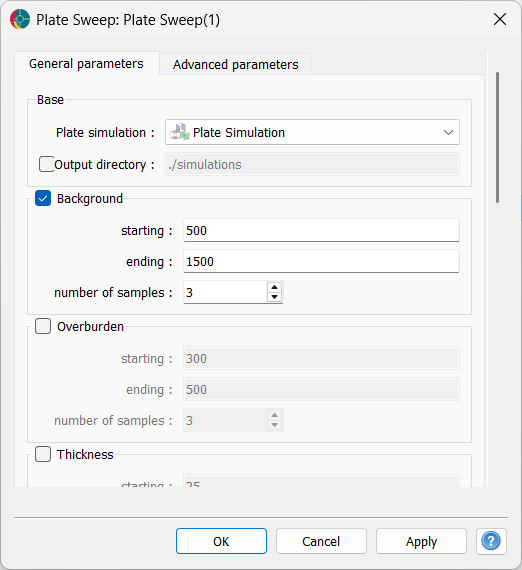
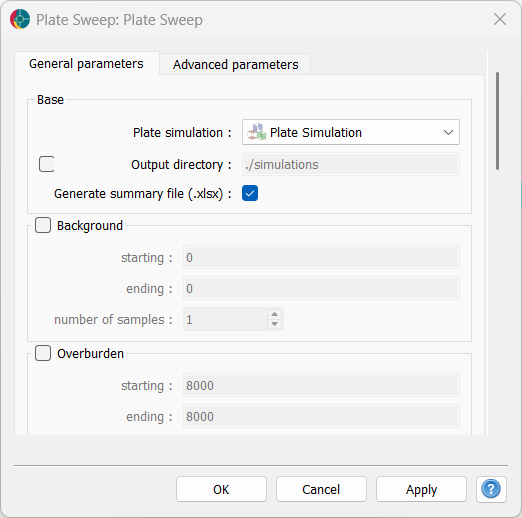
Edit more docs

diff --git a/docs/conf.py b/docs/conf.py
@@ -42,6 +42,7 @@ templates_path = ["_templates"]
 exclude_patterns = []
 todo_include_todos = True
 
+
 # -- Options for auto-doc ----------------------------------------------------
 # https://www.sphinx-doc.org/en/master/usage/extensions/autodoc.html#module-sphinx.ext.autodoc
 

diff --git a/docs/plate-simulation/simulation.rst b/docs/plate-simulation/simulation.rst
@@ -1,13 +1,27 @@
-.. _plate_simulation_usage:
+.. _plate_simulation_index:
 
-Basic Usage
------------
+Plate Simulation
+================
+
+The plate-simulation application is a tool for simulating geophysical data over
+a simple two-layer earth model with plate(s).  It relies on the
+`discretize <https://discretize.simpeg.xyz/en/main/>`_
+and `SimPEG <https://simpeg.xyz/>`_ projects to create a refined octree mesh and
+simulate data over the parameterized model.  The mesh, model and simulation
+details are parameterized in a ui.json file that can be rendered in
+`Geoscience ANALYST Pro <https://www.mirageoscience.com/mining-industry-software/geoscience-analyst-pro/>`_.
+
+.. figure:: /plate-simulation/images/index.png
+   :align: center
+   :width: 50%
+
+
+Interface
+=========
 
 Simulating geophysical data from a physical property model requires three things:
 a computational mesh, a discretization of the model within that mesh, and a means
-to simulate the data. Plate simulation relies on `discretize <https://discretize.simpeg.xyz/en/main/>`_
-for octree mesh creation and `SimPEG <https://simpeg.xyz/>`_ for finite volume
-based forward modeling. Plate simulation includes a module for generating a simple
+to simulate the data. Plate simulation includes a module for generating a simple
 two-layer model with embedded plate anomalies within octree meshes. This section
 discusses all three of these components, their interface exposed by the ui.json file,
 and the storage of results.
@@ -18,35 +32,6 @@ and the storage of results.
 
     *Merged images of both tabs of the ui.json rendered interface.*
 
-.. contents::
-
-.. toctree::
-   :maxdepth: 3
-
-
-Octree Mesh
------------
-
-To accurately simulate the earth model, the mesh must be refined in key areas
-while remaining coarse enough elsewhere to efficiently simulate data. Plate
-simulation includes refinements at the earth-air interface, the transmitter and
-receiver sites, and on the surface of plates.
-
-.. figure:: /plate-simulation/images/methodology/mesh/refinement.png
-    :align: center
-    :width: 100%
-
-    *Octree mesh refinement for earth-air interface, receiver sites,
-    and within the mesh.*
-
-The meshing is controlled by options exposed in the ui.json. These options are
-significantly reduced compared with octree creation from `grid-app <https://mirageoscience-grid-apps.readthedocs-hosted.com/>`_,
-as many parameters have been tailored to suit the needs of plate simulation.
-
-.. figure:: /plate-simulation/images/methodology/mesh/mesh_options.png
-    :align: center
-
-    *Octree mesh parameters exposed in the ui.json.*
 
 Geological Model
 ----------------
@@ -55,12 +40,12 @@ Plate simulation includes a module for generating plates embedded in a two-layer
 Earth model within octree meshes. Many permutations of this simple geological
 scenario result in a complex interface. To simplify this, the discussion is
 organized into two sub-sections: background (basement and overburden) and plates.
+All model values within plate-simulation must be provided in SI units that varies depending on the chosen forward simulation (g/cc, SI or Ohm.m)
 
 Background
 ~~~~~~~~~~
 
-All model values within plate-simulation must be provided in ohm-metres. The
-basement resistivity is actually closer to a halfspace in the sense that it
+The basement resistivity is actually closer to a halfspace in the sense that it
 fills the model anywhere outside of the overburden and plate. Therefore, the
 basement resistivity should be chosen as an effective resistivity for the whole
 geological section. This approach is quite reasonable for most applications
@@ -115,7 +100,7 @@ and share the same resistivity, size, and orientation.
 
     *Model created by choosing three plates spaced at 200m.*
 
-The plate resistivity must be entered in ohm-metres.
+The plate resistivity must be entered in SI units (g/cc, SI or Ohm.m).
 
 .. figure:: /plate-simulation/images/methodology/model/plate_resistivity_option.png
     :align: center
@@ -228,6 +213,30 @@ and at least one component must be selected to run the simulation.
 
     *Simulation options with annotations for required and not required components.*
 
+Octree Mesh
+-----------
+
+To accurately simulate the earth model, the mesh must be refined in key areas
+while remaining coarse enough elsewhere to efficiently simulate data. Plate
+simulation includes refinements at the earth-air interface, the transmitter and
+receiver sites, and on the surface of plates.
+
+.. figure:: /plate-simulation/images/methodology/mesh/refinement.png
+    :align: center
+    :width: 100%
+
+    *Octree mesh refinement for earth-air interface, receiver sites,
+    and within the mesh.*
+
+The meshing is controlled by options exposed in the ui.json. These options are
+significantly reduced compared with octree creation from `grid-app <https://mirageoscience-grid-apps.readthedocs-hosted.com/>`_,
+as many parameters have been tailored to suit the needs of plate simulation.
+
+.. figure:: /plate-simulation/images/methodology/mesh/mesh_options.png
+    :align: center
+
+    *Octree mesh parameters exposed in the ui.json.*
+
 Results
 -------
 
@@ -248,39 +257,16 @@ To iterate on the design of experiment, copy the options, edit them, and run aga
 
     *Copying the options to run a new simulation.*
 
-To sweep one or more input parameters and run multiple simulations, use the
-``generate sweep file`` option to create a file for the `param-sweeps <https://github.com/MiraGeoscience/param-sweeps>`_
-package. See the param-sweeps README for further details on using that package.
 
-.. figure:: /plate-simulation/images/methodology/sweep_option.png
-    :align: center
+Advanced Applications
+---------------------
 
-    *Generating a sweep file to run multiple simulations.*
+Two other applications are available to assist users in finding the best plate parameters to match observed data.
+The sweep application allows users to run a batch of simulations over a range of plate parameters, while the matching application uses an optimization algorithm to find the best fit between simulated and observed data.
 
 
-Running the application
------------------------
+.. toctree::
+   :maxdepth: 1
 
-The main entry point to the various modules is the `plate_simulation.ui.json <https://github.com/MiraGeoscience/plate-simulation/blob/develop/plate_simulation-assets/uijson/plate_simulation.ui.json>`_
-file. The ``ui.json`` serves a dual purpose: (1) rendering a user-interface in
-Geoscience ANALYST and (2) storing the input parameters chosen by the user for the
-program to run. See the `UIJson documentation <https://mirageoscience-geoh5py.readthedocs-hosted.com/en/latest/content/uijson_format/usage.html>`_
-for more information about the ui.json interface.
-
-Access the user-interface from the Geoscience ANALYST Pro Geophysics menu.
-
-.. figure:: /plate-simulation/images/methodology/analyst_geophysics_menu.png
-        :align: center
-        :width: 800
-
-The application can also be run from the command line if all required fields in
-the ui.json are provided. This approach is useful for advanced users who want to
-automate the mesh creation process or re-run an existing mesh with different parameters.
-
-To run the application from the command line, use the following command in a Conda Prompt:
-
-``conda activate plate-simulation``
-
-``python -m plate-simulation.driver input_file.json``
-
-where ``input_file.json`` is the path to the input file on disk.
+   sweep
+   match

diff --git a/docs/plate-simulation/sweep.rst b/docs/plate-simulation/sweep.rst
@@ -1,9 +1,14 @@
 .. _plate_simulation_batch:
 
-Sweep (batch) Simulations
-=========================
+Batch Simulations
+=================
 
-The Plate Sweep module provides a user interface for generating and running multiple simulations by sweeping one or more of the input parameters.  The user can select which parameters to sweep and the range of values for each parameter.  The results of each simulation are stored in a ``*.geoh5`` file named with a unique identifier.
+The Plate Sweep module provides a user interface for generating and running a batch of simulations by sweeping one or more of the input parameters.  The user can select which parameters to sweep and the range of values for each parameter.  The results of each simulation are stored in a ``*.geoh5`` file named with a unique identifier.
+
+
+
+Interface
+---------
 
 .. figure:: /plate-simulation/images/sweep/sweep_uijson.png
     :align: center
@@ -11,7 +16,21 @@ The Plate Sweep module provides a user interface for generating and running mult
 
     *Rendered user-interface in Geoscience ANALYST.*
 
-.. contents::
+Inputs
+^^^^^^
 
-.. toctree::
-   :maxdepth: 3
+- **Plate simulation**: A Plate Simulation group that contains the input parameters for a single plate simulation, as well as the connection to a SimPEG Forward group. Parameters that are not included in the sweep will be taken from this group and used for all simulations.
+- **Output directory**: A directory where the results of each simulation will be stored. Each simulation will be saved in a separate ``*.geoh5`` file named with a unique identifier. The directory is created if it does not exist, otherwise simulations are appended to it.
+- **Generate summary file**: A boolean option to generate a summary file in the output directory. The summary file is a ``*.xls`` file that contains the input parameters and results of each simulation, allowing users to easily sort over the range of simulation parameters.
+- **Sweep block**: For each the following parameters, users can choose a **starting**, **ending** and **step** value to sweep over a range of values. The application will generate a simulation for each value in the range, while keeping all other parameters constant.
+    - **Background**: Over-writing the
+
+Methodology
+-----------
+
+Something
+
+
+Tutorial
+--------
+To be added.

diff --git a/docs/intro.md b/docs/intro.md
@@ -1,15 +1,44 @@
 # About
 
-This document contains training material for geophysical inversions using [SimPEG](https://simpeg.xyz/) and [Geoscience ANALYST](https://www.mirageoscience.com/mining-industry-software/geoscience-analyst/).
+This document contains training material for geophysical forward modeling and inversions using [SimPEG](https://simpeg.xyz/) and [Geoscience ANALYST](https://www.mirageoscience.com/mining-industry-software/geoscience-analyst/).
 ```{image} ./images/ore_body.png
 :width: 500px
 ```
 
-# Table of content
+
+# Table of contents
 
 ```{tableofcontents}
 ```
 
+
+# Running the applications
+
+The main entry point to the various modules are the [*.ui.json](https://github.com/MiraGeoscience/simpeg-drivers/blob/develop/simpeg_drivers-assets/uijson)
+files. The ``ui.json`` serves a dual purpose:
+
+(1) rendering a user-interface in Geoscience ANALYST
+
+(2) storing the input parameters chosen by the user for the program to run. See the [UIJson documentation](https://mirageoscience-geoh5py.readthedocs-hosted.com/en/latest/content/uijson_format/usage.html)
+for more information about the ui.json interface.
+
+The various user-interfaces can be accessed from the Geoscience ANALYST Pro Geophysics menu.
+
+```{image} ./images/analyst_geophysics_menu.png
+:width: 500px
+```
+
+The application can also be run from command line if all required fields in
+the ui.json are provided. This approach is useful for advanced users who want to
+automate the mesh creation process or re-run an existing mesh with different parameters.
+
+To run any of the applications, assuming a valid Conda environment, use the following command:
+
+``conda activate simpeg-drivers``
+
+``python -m simpeg-drivers.driver [YOUR.ui.json]``
+
+where ``[YOUR.ui.json]`` is the path to the input ui.json file on disk.
 
 
 # References

diff --git a/docs/plate-simulation/match.rst b/docs/plate-simulation/match.rst
@@ -1,0 +1,30 @@
+.. _plate_simulation_match:
+
+Plate Matching
+==============
+
+The Plate Matching module provides a user interface for querying a database of plate simulations to find the simulation that best matches a set of user-defined criteria.
+
+Interface
+---------
+
+.. figure:: /plate-simulation/images/sweep/sweep_uijson.png
+    :align: center
+    :width: 80%
+
+    *Rendered user-interface in Geoscience ANALYST.*
+
+Inputs
+^^^^^^
+
+- **A**
+
+Methodology
+-----------
+
+Something
+
+
+Tutorial
+--------
+To be added.
